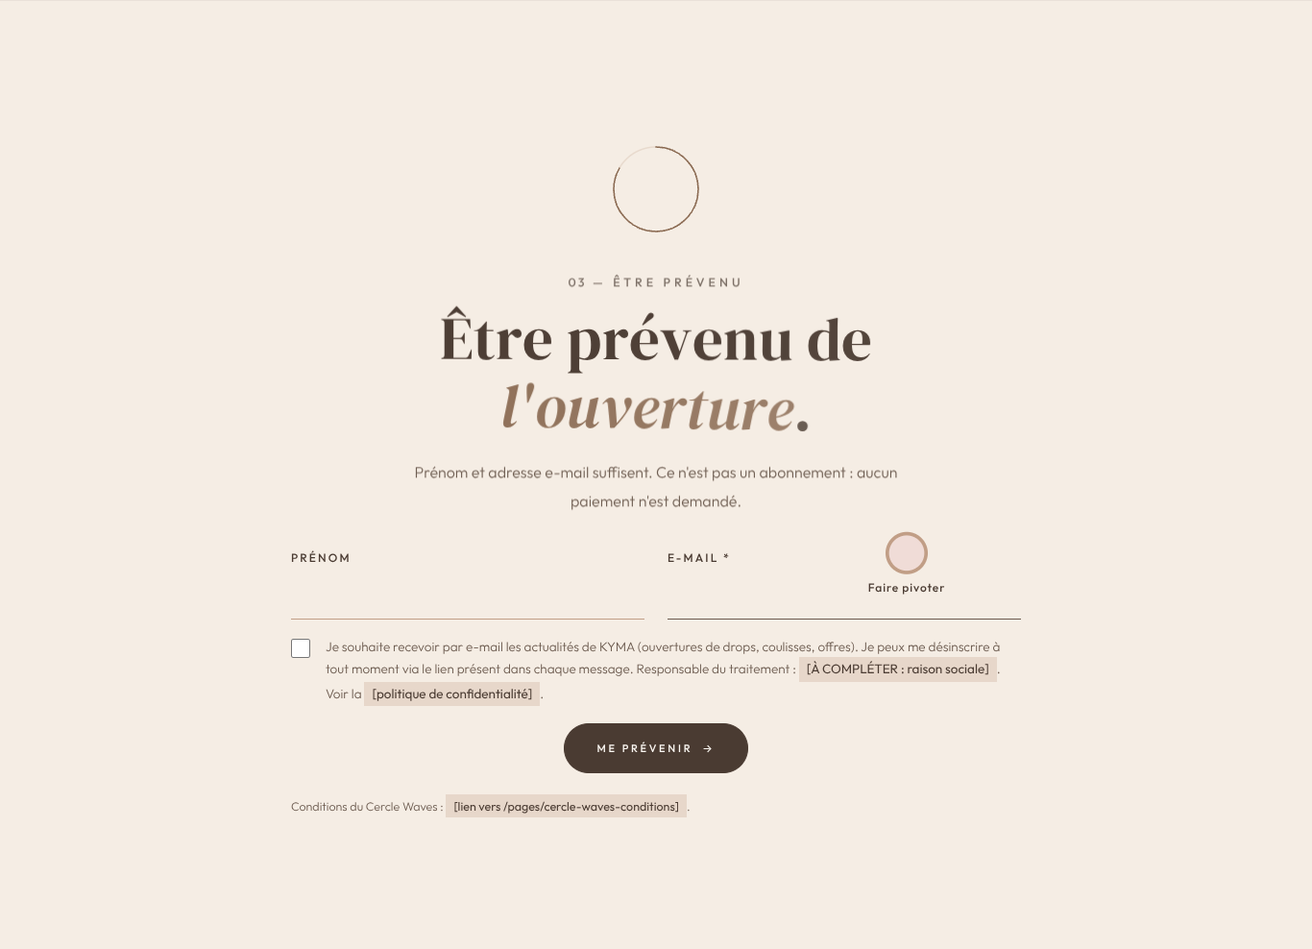
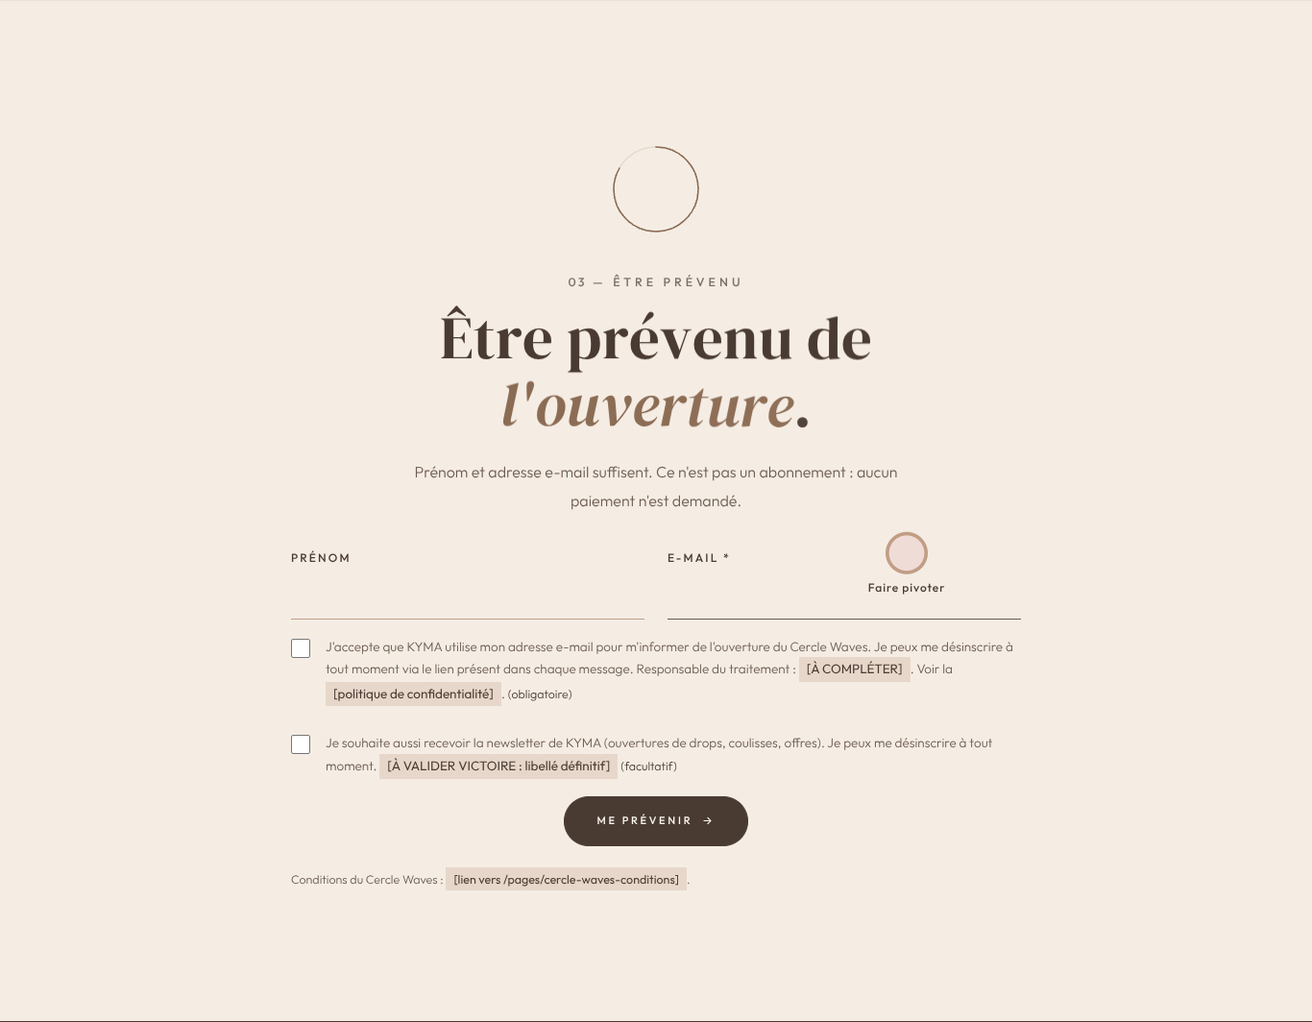
Maya : corrections d'Arthur (cycle 1) sur les textes Cercle Waves v4 et le calendrier Instagram
Claude-Session: https://claude.ai/code/session_01RrtVQxaHYVWpjYx9XrEfdG

Changed region(s): [[0.2152, 0.5162, 0.7687, 0.8806], [0.3075, 0.2733, 0.6764, 0.5466], [0.4612, 0.2126, 0.5227, 0.2429]]

diff --git a/shopify/3d/build_hoodie_v3.py b/shopify/3d/build_hoodie_v3.py
@@ -675,10 +675,13 @@ def shell_from_grid(G, out_ref, uv0, uv1, closed_u=False, lining_step=2, rims=("
         avg = nrm(Ng.mean(1))
         Ng[:] = nrm(Ng * (1 - w)[:, None, None] + avg[:, None, :] * w[:, None, None])
         N = Ng.reshape(-1, 3)
+        th_rows = th * (1 - smoothstep(0.045, 0.012, rowlen))     # la pointe se referme
+    else:
+        th_rows = np.full(nv, th)
     outer = Mesh(V, F, fabric, uv0.reshape(-1, 2), uv1.reshape(-1, 2), N)
     # envers (sous-échantillonné)
     jj, ii = sub_idx(nv, lining_step), sub_idx(nu, lining_step)
-    Gi = (G - th * N.reshape(nv, nu, 3))[np.ix_(jj, ii)]
+    Gi = (G - th_rows[:, None, None] * N.reshape(nv, nu, 3))[np.ix_(jj, ii)]
     Fi = grid_faces(len(jj), len(ii))
     Vi = Gi.reshape(-1, 3)
     Ni = vertex_normals(Vi, Fi)
@@ -1420,6 +1423,7 @@ def bake_ao(layout, nrays=64, rmax=0.30, eps=6e-4, verbose=True):
     local = np.stack([r * np.cos(ang), r * np.sin(ang), np.sqrt(np.maximum(1 - r * r, 0))], 1)
     rng = np.random.default_rng(1)
     best = [np.zeros(len(m.V)) for _, m in prims]
+    closed = [None] * len(prims)
     for st in states:
         Vs, Ns = [], []
         for nd, m in prims:
@@ -1458,13 +1462,15 @@ def bake_ao(layout, nrays=64, rmax=0.30, eps=6e-4, verbose=True):
         ao = 1 - occ
         for i, (_, m) in enumerate(prims):
             best[i] = np.maximum(best[i], ao[offs[i]:offs[i + 1]])
+            if st is None:
+                closed[i] = ao[offs[i]:offs[i + 1]]
         if verbose:
             print(f"  occlusion : état {states.index(st) + 1}/3 ({time.time() - t0:.0f} s)")
     # lissage léger sur le maillage (le bruit des 64 rayons disparaît, les creux restent)
     for i, (_, m) in enumerate(prims):
         if m.material in no_ao:
             continue
-        a = best[i]
+        a = 0.7 * best[i] + 0.3 * closed[i]      # ouvert : intérieur lisible mais pas plat
         for _ in range(2):
             acc = np.zeros(len(a))
             cnt = np.zeros(len(a))

diff --git a/shopify/contenu/instagram-calendrier-4-semaines.md b/shopify/contenu/instagram-calendrier-4-semaines.md
@@ -1,9 +1,10 @@
-# Instagram @kymasinsta — calendrier éditorial de 4 semaines (Maya, 09/10/2026)
+# Instagram @kymasinsta — calendrier éditorial de 4 semaines (Maya, 09/10/2026 ; mis en cohérence avec les corrections d'Arthur le 10/10/2026)
 
 > **Période** : liste d'attente Cercle Waves + teasing Drop 1 (hoodie zippé Ressac).
-> **Statut** : BROUILLON PRÊT À RELIRE. Rien n'est publiable avant les « portes » de la partie 0. Pour Arthur (validation), Victoire (relecture des posts listés en partie 4), Clémentine (aiguillage), fondateur (valeurs et accord).
-> **Bases lues** : `brand/BRAND.md`, `shopify/contenu/cercle-waves-textes-v4.md` (§3 : post d'annonce, repris tel quel en S1 J1), `shopify/conformite.md` (Entraide 09/10/2026, parties B, C, D, E), `shopify/contenu/tendances-web-2026.md` (typographie cinétique, scrollytelling, grain tactile, 3D douce).
+> **Statut** : BROUILLON PRÊT À RELIRE. Rien n'est publiable avant les « portes » de la partie 0. Pour Arthur (validation), Victoire (relecture des posts listés en partie 8), Clémentine (aiguillage), fondateur (valeurs et accord).
+> **Bases lues** : `brand/BRAND.md`, `shopify/contenu/cercle-waves-textes-v4.md` (§3 : post d'annonce, version corrigée au cycle 1 d'Arthur, repris en S1 J1), `shopify/conformite.md` (Entraide 09/10/2026, parties B, C, D, E), `shopify/contenu/tendances-web-2026.md` (typographie cinétique, scrollytelling, grain tactile, 3D douce).
 > **Convention de date** : « S1 J1 » = premier jour de publication, une fois les portes ouvertes. Jours conseillés pour le rythme : J1, J3, J5 pour le fil (feed/Reels) ; les stories sur J1, J2, J4, J6/J7. Heure conseillée : fin de journée (18 h–20 h), à ajuster avec les statistiques réelles du compte.
+> **Signature des posts Cercle Waves** : « Le cercle se prépare. » (ancienne formule « Le cercle s'élargit. » abandonnée : elle suggérait un cercle déjà ouvert qui grandit).
 
 ---
 
@@ -17,13 +18,14 @@
 | P4 | Aucun crochet visible sur les pages vers lesquelles Instagram renvoie (E3) | Sacha | Une capture ou un lien qui montre « [À CONFIRMER] » est une publication fautive |
 | P5 | Provenance des GLB `ressac-v2-*.glb` documentée (L5) : auteur, outils, aucun élément tiers, aucune IA | Izaac, fondateur | On publie des captures de ces modèles sur un compte de marque |
 | P6 | Validation d'Arthur (« VALIDÉ ») + confirmation du fondateur | Arthur, fondateur | Règle de livraison |
+| P7 | **Société immatriculée**, politique de confidentialité publiée, boutique sur **forfait payant** ; page des conditions publiée **sans crochet après relecture d'un avocat** | Fondateur, Victoire, Sacha | Statut du post d'annonce (v4 §3, points 4 et 5). **Aucune adresse n'est collectée et aucun e-mail n'est envoyé aux inscrits (confirmation, annonce, newsletter) avant que P7 soit levée** |
 
 **Portes spécifiques à certains posts**
 - **S2 J1 et suivants (nom « Ressac »)** : accord de Victoire sur l'usage du nom (aucune antériorité recherchée, conformité Entraide E, remarque i).
 - **S3 J1 (cinq coloris)** : le fondateur confirme les 5 coloris du tech pack v3 (point d'arbitrage n° 1 de BRAND.md).
 - **S4 J1, version B** : valeurs entre crochets des avantages validées (partie 4 du document v4) et date du premier accès anticipé fixée (E1).
 
-Si P1 à P6 ne sont pas réunies à la date voulue, on décale **tout** le calendrier (les CTA renvoient tous au site). Le contenu ne se publie pas « sans lien ».
+Si P1 à P7 ne sont pas réunies à la date voulue, on décale **tout** le calendrier (les CTA renvoient tous au site). Le contenu ne se publie pas « sans lien ».
 
 ---
 
@@ -51,6 +53,7 @@ Si P1 à P6 ne sont pas réunies à la date voulue, on décale **tout** le calen
 9. **Accessibilité** : alt-text à chaque image ou carrousel (3 propositions ci-dessous, retenir la première par défaut) ; sous-titres incrustés sur les vidéos qui parlent ; mouvement doux, aucun flash ; toute vidéo reste compréhensible sans le son.
 10. **Esthétique** : fond Beige #F5EDE4, accents Marron clair #C19E86 et Rose clair #E8C4C4, texte Brun #4A3B32, DM Serif Display (titres, mot fort en italique) + Outfit (corps). Un léger grain tactile sur les fonds typographiques (réponse au rendu « IA trop lisse », tendances-web-2026 §1.5). Le lilas n'apparaît que comme coloris produit.
 11. **Ton** : vouvoiement ; ni point d'exclamation, ni majuscules d'emphase, ni emoji, ni « cool/stylé/trendy ». Hashtags : 5 maximum, tous listés par pièce.
+12. **E-mails aux inscrits** : aucun avant la porte P7. Les publications peuvent dire « nous vous écrirons à l'ouverture » (c'est l'état prévu), jamais « vous allez recevoir » avec une date ni « un e-mail vous attend ».
 
 ---
 
@@ -59,19 +62,19 @@ Si P1 à P6 ne sont pas réunies à la date voulue, on décale **tout** le calen
 ### S1 J1 — Fil, image unique : annonce de la liste d'attente
 - **Format** : image 4:5 (1080×1350), statique (le visuel animé existe sur le site ; l'image est une capture).
 - **Visuel** : capture du visuel « anneaux » du site : deux anneaux satinés, rose clair et marron clair, qui se rapprochent sur fond beige. Texte incrusté discret : « Cercle Waves » (DM Serif, « Waves » en italique brun) et, en bas, « Rendu 3D, pas une photo. »
-- **Légende** (texte validé en v4, variante d'accroche n° 1) :
+- **Légende** (texte de la v4 corrigée au cycle 1, variante d'accroche n° 1) :
 
 > Un cercle se dessine, vague après vague.
 >
-> La liste d'attente du Cercle Waves est ouverte. L'abonnement KYMA compte deux paliers payants, INITIUM et MAJESTÉ, en abonnement trimestriel. La date d'ouverture n'est pas encore fixée : laissez votre adresse (lien en bio), nous vous écrirons. Ce n'est pas un abonnement, aucun paiement n'est demandé.
+> La liste d'attente du Cercle Waves est ouverte. L'abonnement KYMA compte deux paliers payants, INITIUM et MAJESTÉ, en abonnement trimestriel. La date d'ouverture n'est pas encore fixée : laissez votre adresse (lien en bio), nous vous écrirons. Cette inscription n'est pas un abonnement : aucun paiement n'est demandé.
 >
-> Le cercle s'élargit.
+> Le cercle se prépare.
 
 - **Alt-text** (3 propositions) :
   1. Deux anneaux satinés, rose clair et marron clair, qui se rapprochent sur fond beige. Rendu 3D, pas une photo.
   2. Visuel typographique beige : « Cercle Waves » en lettres brunes, deux anneaux souples en arrière-plan.
   3. Capture du site KYMA : deux cercles tonals qui s'entrelacent, rose clair et camel, sur fond beige.
-- **CTA** : implicite, « Le cercle s'élargit. » + lien en bio (« Liste d'attente Cercle Waves » → `/pages/cercle-waves#rejoindre`).
+- **CTA** : implicite, « Le cercle se prépare. » + lien en bio (« Liste d'attente Cercle Waves » → `/pages/cercle-waves#rejoindre`).
 - **Hashtags (5)** : #kyma #lartduflow #cerclewaves #streetwearunisexe #parisstreetwear
 
 ### S1 J1 — Stories (2), publiées le même jour
@@ -95,7 +98,7 @@ Si P1 à P6 ne sont pas réunies à la date voulue, on décale **tout** le calen
 >
 > Le Cercle Waves est l'abonnement de KYMA, en deux paliers payants. Il n'est pas encore ouvert : la liste d'attente l'est, sans paiement (lien en bio).
 >
-> Le cercle s'élargit.
+> Le cercle se prépare.
 
 - **CTA** : implicite + lien en bio.
 - **Hashtags (5)** : #kyma #lartduflow #cerclewaves #motiondesign #streetwearunisexe
@@ -108,17 +111,17 @@ Si P1 à P6 ne sont pas réunies à la date voulue, on décale **tout** le calen
 
 ### S1 J5 — Fil, carrousel : « Un geste simple »
 - **Format** : carrousel 4 images 4:5, typographie sur beige grainé.
-- **Visuel** : 1) « Liste d'attente / Cercle Waves » ; 2) « Prénom et adresse e-mail suffisent. » ; 3) « Aucun paiement n'est demandé. Ce n'est pas un abonnement. » ; 4) « Nous vous écrirons à l'ouverture du Cercle Waves. » + « Lien en bio ». Un trait ondulant relie les quatre cartes.
+- **Visuel** : 1) « Liste d'attente / Cercle Waves » ; 2) « Prénom et adresse e-mail suffisent. » ; 3) « Cette inscription n'est pas un abonnement : aucun paiement n'est demandé. » ; 4) « Nous vous écrirons à l'ouverture du Cercle Waves. » + « Lien en bio ». Un trait ondulant relie les quatre cartes.
 - **Légende** :
 
 > Un geste simple, comme une vague qui se pose.
 >
-> Pour rejoindre la liste d'attente du Cercle Waves, un prénom et une adresse e-mail suffisent. Aucun paiement n'est demandé, et l'inscription n'est pas un abonnement.
+> Pour rejoindre la liste d'attente du Cercle Waves, un prénom et une adresse e-mail suffisent. Cette inscription n'est pas un abonnement : aucun paiement n'est demandé.
 >
-> Le cercle s'élargit.
+> Le cercle se prépare.
 
 - **Alt-text** (3) :
-  1. Carrousel de quatre cartes beiges : « Liste d'attente Cercle Waves », « Prénom et adresse e-mail suffisent », « Aucun paiement n'est demandé », « Nous vous écrirons à l'ouverture ».
+  1. Carrousel de quatre cartes beiges : « Liste d'attente Cercle Waves », « Prénom et adresse e-mail suffisent », « Cette inscription n'est pas un abonnement : aucun paiement n'est demandé », « Nous vous écrirons à l'ouverture ».
   2. Quatre cartes typographiques, texte brun sur fond beige, reliées par un trait ondulant marron clair.
   3. Série de cartes expliquant l'inscription à la liste d'attente du Cercle Waves, sans paiement.
 - **CTA** : implicite + lien en bio.
@@ -274,13 +277,13 @@ Si P1 à P6 ne sont pas réunies à la date voulue, on décale **tout** le calen
 >
 > Le Cercle Waves compte deux paliers payants, INITIUM et MAJESTÉ, en abonnement trimestriel. Il n'est pas encore ouvert : la date n'est pas fixée, et l'inscription à la liste d'attente ne vaut pas abonnement. Les avantages et les conditions sont détaillés sur la page (lien en bio).
 >
-> Le sillage s'élargit.
+> Le cercle se prépare.
 
 - **Alt-text** (3) :
   1. Carrousel de cinq cartes beiges présentant les deux paliers du Cercle Waves, INITIUM et MAJESTÉ, avec leurs prix trimestriels TTC.
   2. Deux cartes typographiques, l'une « INITIUM », l'autre « MAJESTÉ », texte brun sur fond beige, avec les conditions d'abonnement.
   3. Série de cartes expliquant l'abonnement trimestriel du Cercle Waves et la liste d'attente.
-- **CTA** : « Le sillage s'élargit. » + lien en bio.
+- **CTA** : « Le cercle se prépare. » + lien en bio.
 - **Hashtags (5)** : #kyma #lartduflow #cerclewaves #streetwearunisexe #parisstreetwear
 - **Version B (à produire seulement après validation des valeurs entre crochets et de la date du premier accès anticipé)** : ajouter une carte « Avantages » qui reprend **mot pour mot** les lignes `perks` de la page (§1.2 du document v4), crochets remplacés par les valeurs validées, avec la note de nature du cashback (« versé en crédit KYMA, pas en espèces… »). Aucun avantage chiffré ni daté ne figure dans la version A.
 - **Note pour Victoire** : le post d'annonce v4 excluait le prix. Ici je l'inclus parce que la description des deux paliers sans prix ni reconduction me semble une omission (L.121-3). À trancher : version avec ou sans prix.
@@ -297,14 +300,14 @@ Si P1 à P6 ne sont pas réunies à la date voulue, on décale **tout** le calen
 
 ### S4 J3 — Reel : quatre semaines de ressac
 - **Format** : Reel 9:16, 15 s, montage doux.
-- **Visuel** : cinq plans de 2–3 s : anneaux, « Cercle Waves » en mouvement, tracé du dessin technique, cinq teintes en fondu, motif. Mention fixe pour les plans 3D : « Modèles 3D de présentation, pas des photos du produit fabriqué. » Dernière image : « Le cercle s'élargit. » Son : vagues du fondateur.
+- **Visuel** : cinq plans de 2–3 s : anneaux, « Cercle Waves » en mouvement, tracé du dessin technique, cinq teintes en fondu, motif. Mention fixe pour les plans 3D : « Modèles 3D de présentation, pas des photos du produit fabriqué. » Dernière image : « Le cercle se prépare. » Son : vagues du fondateur.
 - **Légende** :
 
 > Quatre semaines de ressac : un cercle, un trait, des teintes.
 >
 > La liste d'attente du Cercle Waves reste ouverte (lien en bio). Le hoodie Ressac n'est pas encore en vente ; aucune date n'est fixée. Modèles 3D de présentation, pas des photos du produit fabriqué.
 >
-> Le cercle s'élargit.
+> Le cercle se prépare.
 
 - **CTA** : implicite + lien en bio.
 - **Hashtags (5)** : #kyma #lartduflow #cerclewaves #motiondesign #automne
@@ -330,7 +333,7 @@ Si P1 à P6 ne sont pas réunies à la date voulue, on décale **tout** le calen
 
 ### S4 J7 — Story de clôture
 - **Format** : story fixe 9:16, typographie.
-- **Texte** : « Le cercle s'élargit. » + sticker lien « Liste d'attente Cercle Waves ». Pas d'annonce de suite : on ne promet rien de non daté.
+- **Texte** : « Le cercle se prépare. » + sticker lien « Liste d'attente Cercle Waves ». Pas d'annonce de suite : on ne promet rien de non daté.
 - **Bilan interne** : relever les chiffres de la partie 7 et en tirer une note dans `out/memo-maya.md`.
 
 ---
@@ -345,6 +348,7 @@ Ton : calme, court, vouvoiement, jamais défensif. Une réponse de moins de 24 h
 | « Combien coûte le hoodie ? » | « Le prix n'est pas encore communiqué. » |
 | « Je peux m'abonner ? » | « Pas encore : seule la liste d'attente est ouverte, sans paiement. » |
 | « Le Cercle Waves est gratuit ? » | « Non : deux paliers payants, en abonnement trimestriel. L'inscription à la liste d'attente, elle, ne coûte rien. » |
+| « Je me suis inscrit, je n'ai rien reçu. » | « Nous vous écrirons à l'ouverture du Cercle Waves ; la date n'est pas encore fixée. Vous pouvez vous désinscrire à tout moment. » (Aucune promesse de message avant la porte P7.) |
 | « Fabriqué où ? Portugal ? » | « KYMA est imaginée à Paris. Nous n'indiquons que ce qui est confirmé, et ce point ne l'est pas encore. » |
 | « Coton bio ? GOTS ? » | « Nous n'annonçons que ce qui est confirmé et documenté. La composition n'est pas encore confirmée. » |
 | « Chaque pièce est unique ? » | « Chaque pièce est pensée pour être unique ; la vôtre différera des modèles 3D. » |
@@ -377,7 +381,7 @@ Formats : 4:5 (1080×1350) et 9:16 (1080×1920), vidéos H.264, boucles de 8–1
 | I4 | Rotation douce du hoodie, 6 s, Lilac Whirl | S3 J3 | Aucune déformation de coupe |
 | I5 | Motif KYMA Wave en volutes tonales (capture de la sculpture), 4:5 | S3 J5 | Mention « Illustration du motif… » incrustée |
 | I6 | Dessins techniques vectoriels du hoodie : face, capuche, poche biais, bords-côtes 6 cm ; version fixe (6 cartes) + version animée (tracé, 12 s) | S2 J1, S2 J3 | Fond beige, trait brun ou marron clair |
-| I7 | Trois boucles typographiques : « Cercle Waves », « Le cercle s'élargit. », « Trait. Courbe. Ressac. » (DM Serif + Outfit, « Waves » en italique) | S1 J3, S2 J3, S4 J3 | Mouvement de houle, aucun effet clignotant |
+| I7 | Trois boucles typographiques : « Cercle Waves », « Le cercle se prépare. », « Trait. Courbe. Ressac. » (DM Serif + Outfit, « Waves » en italique) | S1 J3, S2 J3, S4 J3 | Mouvement de houle, aucun effet clignotant |
 | I8 | Cartes typographiques fixes : 4 (S1 J5), 5 (S4 J1), stories | S1 J5, S4 J1, stories | Logo respectant la zone de protection |
 | I9 | **Documenter la provenance des GLB `ressac-v2-*.glb`** (auteur, outils, aucun élément tiers, aucune IA) et **confirmer que le modèle reste fidèle au tech pack** | Porte P5 | Sans cela, aucune capture du hoodie n'est publiable |
 
@@ -387,18 +391,18 @@ Formats : 4:5 (1080×1350) et 9:16 (1080×1920), vidéos H.264, boucles de 8–1
 | Sa1 | Lien en bio principal : `/pages/cercle-waves#rejoindre` (liste d'attente), avec paramètres UTM par semaine | Toutes les semaines |
 | Sa2 | Lien secondaire : accueil, ancre sur la section « piece » (récit 3D) ; prévoir `id` d'ancre et le lien raccourci propre | S2 J1, J5, S3 J3 |
 | Sa3 | Ancres pour la section des coloris (`Coloris du modèle 3D`) et pour la section « motif » | S3 J1, J5 |
-| Sa4 | Page Cercle Waves **sans crochets**, avec conditions et confidentialité publiées ; raison sociale dans le `consent` | S1 J1 (portes P1 à P4) |
+| Sa4 | Page Cercle Waves **sans crochets**, avec conditions et confidentialité publiées ; raison sociale dans le `consent` | S1 J1 (portes P1 à P4, P7) |
 | Sa5 | Légende 3D permanente visible à chaque étape, aussi sans JavaScript ni WebGL (R1/R2) | Toutes les captures |
 | Sa6 | **Test dans le navigateur intégré d'Instagram** (iOS et Android) : le récit 3D doit s'afficher ou basculer sur les images fixes, avec la mention visible | Tout lien en bio |
-| Sa7 | Double confirmation (double opt-in) de l'inscription si elle est retenue ; message de succès v4 | S1 J1 |
+| Sa7 | Formulaire de liste d'attente conforme à la v4 §1.4 : **case 1 obligatoire** (finalité unique « m'informer de l'ouverture du Cercle Waves »), **case 2 newsletter facultative et distincte**, aucune pré-cochée ; double confirmation (double opt-in) si elle est retenue ; message de succès v4. **Aucun e-mail envoyé avant la porte P7** | S1 J1 |
 | Sa8 | Aucun pixel (Meta, TikTok) avant consentement ; confirmer l'état du bandeau cookies | Partie 9 |
 
 ### Victoire — posts à relire
 Priorité haute (relire avant publication, chaque pièce) :
 | Pièce | Point sensible |
 |---|---|
-| S1 J1 (annonce) | Texte v4 déjà relu en base ; vérifier la cohérence avec la version finale de la page |
-| S1 J5 (carrousel) | « Aucun paiement », « n'est pas un abonnement » : cohérence avec le formulaire |
+| S1 J1 (annonce) | Texte v4 corrigé au cycle 1, déjà relu en base ; vérifier la cohérence avec la version finale de la page |
+| S1 J5 (carrousel) | « Cette inscription n'est pas un abonnement : aucun paiement n'est demandé », cohérence avec le formulaire |
 | S2 J1, J3 | Nom « Ressac » (antériorité), « pas encore en vente ; aucune date n'est fixée », dessin de conception |
 | S2 J5 | « Dessinée en laiton, finition dorée brossée » (R5) |
 | S3 J1 | Cinq noms de coloris, descriptions poétiques, mention « couleurs dépendent de votre écran » |
@@ -407,7 +411,7 @@ Priorité haute (relire avant publication, chaque pièce) :
 | S4 J2 | Quatre réponses de FAQ |
 | Toutes les vidéos | Licence des sons ; droit à l'image dans les coulisses |
 
-Points transverses à trancher : (1) mention incrustée suffisante dans les Reels ; (2) formulations de la partie 6 ; (3) hashtags #listedattente, #kymawave ; (4) aucun concours ni influenceur pendant ces quatre semaines.
+Points transverses à trancher : (1) mention incrustée suffisante dans les Reels ; (2) formulations de la partie 6 ; (3) hashtags #listedattente, #kymawave ; (4) aucun concours ni influenceur pendant ces quatre semaines ; (5) « Le cercle se prépare. » comme signature récurrente (état présent, pas de date).
 
 ### Abdou — budget publicitaire éventuel à chiffrer
 Rien n'est à dépenser pour que le calendrier fonctionne : il est entièrement organique. Si le fondateur veut tester un coup de pouce payant, voici le cadre à chiffrer :
@@ -418,7 +422,7 @@ Rien n'est à dépenser pour que le calendrier fonctionne : il est entièrement 
 | B. Test léger | Promotion de deux pièces seulement : le Reel S1 J3 et le carrousel S1 J5 ; objectif « trafic » vers la page de la liste d'attente ; France ; durée courte | À partir de S2, une fois le formulaire testé |
 | C. Test soutenu | B + le carrousel S3 J1 et le Reel S3 J3 ; deux variantes de ciblage | À partir de S3, selon les résultats de B |
 
-À préciser par Abdou : plafond total accepté, budget quotidien, durée de chaque test, coût par clic et coût par inscription acceptable, formule `budget = inscriptions visées ÷ taux d'inscription par clic × coût par clic`. Précisions de cadrage : âge cible à arbitrer (lookbook 18–30, tech pack 22–40) ; les mêmes mentions (3D, « pas encore en vente ») figurent dans les publicités ; l'optimisation se fait sur les clics, sans pixel ; texte publicitaire à relire par Victoire avant mise en ligne ; aucun budget dépensé avant que la société soit immatriculée et que la raison sociale soit renseignée. Je fournis les textes et les visuels (coût de création interne nul).
+À préciser par Abdou : plafond total accepté, budget quotidien, durée de chaque test, coût par clic et coût par inscription acceptable, formule `budget = inscriptions visées ÷ taux d'inscription par clic × coût par clic`. Précisions de cadrage : âge cible à arbitrer (lookbook 18–30, tech pack 22–40) ; les mêmes mentions (3D, « pas encore en vente ») figurent dans les publicités ; l'optimisation se fait sur les clics, sans pixel ; texte publicitaire à relire par Victoire avant mise en ligne ; aucun budget dépensé avant que la société soit immatriculée et que la raison sociale soit renseignée (porte P7). Je fournis les textes et les visuels (coût de création interne nul).
 
 ### Isabelle (facultatif)
 Vérifier le volume réel et la pertinence des hashtags #parisstreetwear, #streetwearunisexe, #hoodieoversize, #listedattente, #kymawave. Sans elle, je garde la liste de base de la marque.
@@ -427,13 +431,14 @@ Vérifier le volume réel et la pertinence des hashtags #parisstreetwear, #stree
 
 ## 9. Prérequis légaux résumés (rappel pour Arthur)
 
-1. Pas de collecte d'adresses avant publication des politiques, forfait Shopify payant et validation (point 10 de la note de conformité).
+1. Pas de collecte d'adresses avant publication des politiques, forfait Shopify payant et validation (point 10 de la note de conformité). **Société immatriculée avant toute collecte ; aucun e-mail aux inscrits avant la porte P7.**
 2. Pas de pixel avant consentement (bandeau « Tout accepter / Tout refuser »).
 3. Aucune allégation GOTS, bio, Portugal, « éco-responsable », « zéro plastique ».
 4. Visuels 3D toujours accompagnés de la mention « pas une photo du produit fabriqué ».
 5. Aucun avantage du Cercle Waves chiffré ou daté dans un post tant que le fondateur ne l'a pas validé et que la date du premier accès anticipé n'est pas fixée (E1).
 6. Pas de prix du hoodie, pas de prix barré, pas de date de vente.
 7. Relecture par un avocat des conditions et des textes d'abonnement avant toute ouverture de l'abonnement (rappel de Victoire).
+8. Liste d'attente : case de consentement obligatoire limitée à la finalité « ouverture du Cercle Waves », newsletter en case distincte facultative, aucune pré-cochée (décision d'Arthur, v4 §1.4).
 
 ---
 
@@ -441,7 +446,7 @@ Vérifier le volume réel et la pertinence des hashtags #parisstreetwear, #stree
 
 | Date | Format | Contenu | Porte |
 |---|---|---|---|
-| S1 J1 | Fil image + 2 stories | Annonce liste d'attente | P1–P6 |
+| S1 J1 | Fil image + 2 stories | Annonce liste d'attente | P1–P7 |
 | S1 J2 | Story vidéo | Son de la vague | |
 | S1 J3 | Reel | « Cercle Waves » en mouvement | |
 | S1 J4 | 3 stories | Coulisses papier | |
